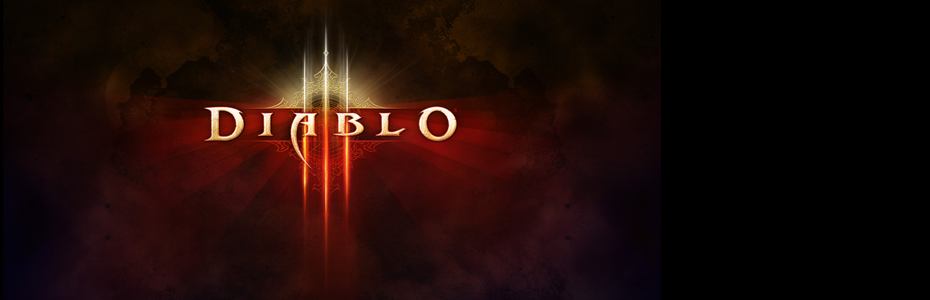
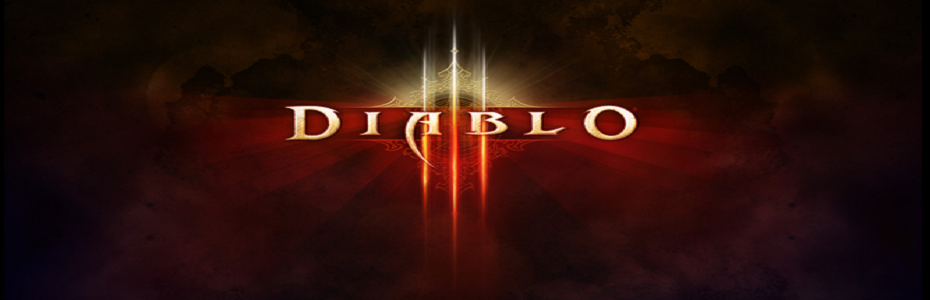
18-04-2016 - Я продолжаю ебеться с этим сайтом ))

diff --git a/index.html b/index.html
@@ -120,8 +120,8 @@
                                     <p>Your Health and Happines</p>
                                 </li>
                                 <li>
-                                   <h3>Entertainment</h3>
-                                   <p>Movies, Music and Reviews</p>
+                                    <h3>Entertainment</h3>
+                                    <p>Movies, Music and Reviews</p>
                                     <ul class="submenu">
                                         <li>
                                             <p>Blog Page</p>
@@ -148,6 +148,58 @@
                 </div>
             </nav>
             <div class="slider">
+                <input type="radio" name="cheker" id="switcher-1" checked>
+                <label for="switcher-1">
+                    <img src="/img/diablo-min.png" alt="">
+                </label>
+                
+                <input type="radio" name="cheker" id="switcher-2" >
+                <label for="switcher-2">
+                    <img src="/img/girl%20with%20bowl-min.jpg" alt="">
+                </label>
+                
+                <input type="radio" name="cheker" id="switcher-3" >
+                <label for="switcher-3">
+                    <img src="/img/magnito-min.jpg" alt="">
+                </label>
+                
+                <input type="radio" name="cheker" id="switcher-4" >
+                <label for="switcher-4">
+                    <img src="/img/sun-min.jpg" alt="">
+                </label>
+                
+                <input type="radio" name="cheker" id="switcher-5" >
+                <label for="switcher-5">
+                    <img src="/img/president-min.jpg" alt="">
+                </label>
+                
+                <input type="radio" name="cheker" id="switcher-6" >
+                <label for="switcher-6">
+                    <img src="/img/diablo-min.png" alt="">
+                </label>
+                
+                <div class="bg-white-block"></div>
+                
+                <ul>
+                    <li>
+                        <img src="/img/diablo.png" alt="">
+                    </li>
+                    <li>
+                        <img src="/img/girl%20with%20bowl.jpg" alt="">
+                    </li>
+                    <li>
+                        <img src="/img/magnito.jpg" alt="">
+                    </li>
+                    <li>
+                        <img src="/img/sun.jpg" alt="">
+                    </li>
+                    <li>
+                        <img src="/img/president.jpg" alt="">
+                    </li>
+                    <li>
+                        <img src="/img/diablo.png" alt="">
+                    </li>
+                </ul>
 
             </div>
             <article>

diff --git a/css/style.css b/css/style.css
@@ -96,7 +96,7 @@ body{
     color: #959595;
     width: 100%;
     height: 4000px;
-    
+
 }
 a,p,.wrapper>ul>li>ul{
     color: #959595;
@@ -134,7 +134,7 @@ a,p,.wrapper>ul>li>ul{
     border-bottom: 1px solid grey;
     width: 90%;
     margin: 0 auto;
-    
+
 }
 .wrapper>ul>li>ul>li:nth-of-type(2){
     line-height: 243%;
@@ -168,7 +168,7 @@ li>a{
 }
 @keyframes drop{
     0%{
-        
+
         margin-top: 1%;
         opacity: 0;
     }
@@ -233,7 +233,7 @@ span{
     color: #ffffff;
 }
 .row>.col-5{
-    
+
 }
 nav+.container{
     height: 85.5%;
@@ -360,8 +360,9 @@ main>nav{
 .col-12>ul>li:nth-of-type(5){
     margin-left: 0.2%;
     letter-spacing: -1.0px;
-    height: 100%;
+    height: 77%;
     width: 15.9%;
+    transition: background 0.4s ease;
 }
 .col-12>ul>li:nth-of-type(5)>h3{
     margin-top: 5.2%;
@@ -375,12 +376,13 @@ main>nav{
 }
 /* Li -5:HOVER -> Начало */
 .col-12>ul>li:nth-of-type(5):hover{
-    margin-left: 0.2%;
+    margin-left: 0.1%;
     margin-top: -1.0%;
     letter-spacing: -1.0px;
-    height: 86%;
-    width: 15.9%;
+    height: 117%;
+    width: 16.1%;
     padding-top: 1.0%;
+    padding-left: 0.1%;
     border-radius: 5px 5px 0 0;
     background: #232323;
 }
@@ -452,6 +454,79 @@ main>nav{
 
 
 /* Submenu - Animation*/
-.col-12>ul>li:nth-of-type(5):hover>.sumenu{
+.col-12>ul>li:nth-of-type(5):hover>.submenu{
     display: block;
+    animation-name: drop;
+    animation-duration: 0.4s;
+    animation-fill-mode: forwards;
+    animation-timing-function: ease-in-out;
+}
+
+/*          Slider - Start  
+============================================================ 
+*/
+
+.slider{
+    width: 100%;
+    height: 446px;
+}
+.slider>ul>li {
+    position: absolute;
+    top: 4.1%;
+    left: 2.4%;
+}
+.slider>ul{
+    list-style: none;
+    width: 100%;
+/*    height: 230px;*/
+}
+.slider label {
+    width: 10.2%;
+    height: 62px;
+    margin-top: 314px;
+    position: relative;
+    display: inline-block;
+    z-index: 50;
+    border: 1px solid grey;
+    padding-top: 0.2%;
+    padding-left: 0.3%
+
+}
+.slider label img {
+    border: 1px solid grey;
+}
+.slider input {
+    overflow:hidden;
+    visibility: hidden;
+    position: absolute;
+    top: 12%;
+    left: 50%;
+}
+.slider label:nth-of-type(1){
+    margin-left: 16.3%;
+}
+.slider label:nth-of-type(2){
+    margin-left: 0.7%;
+}
+.slider label:nth-of-type(3){
+    margin-left: 0.8%;
+}
+.slider label:nth-of-type(4){
+    margin-left: 0.9%;
+}
+.slider label:nth-of-type(5){
+    margin-left: 0.8%;
+}
+.slider label:nth-of-type(6){
+    margin-left: 0.8%;
+}
+.bg-white-block {
+    width: 75.5%;
+    height: 81px;
+    z-index: 30;
+    background: #dddddd;
+    position: absolute;
+    top: 14.2%;
+    left: 12.2%;
+    border-radius: 5px;
 }
